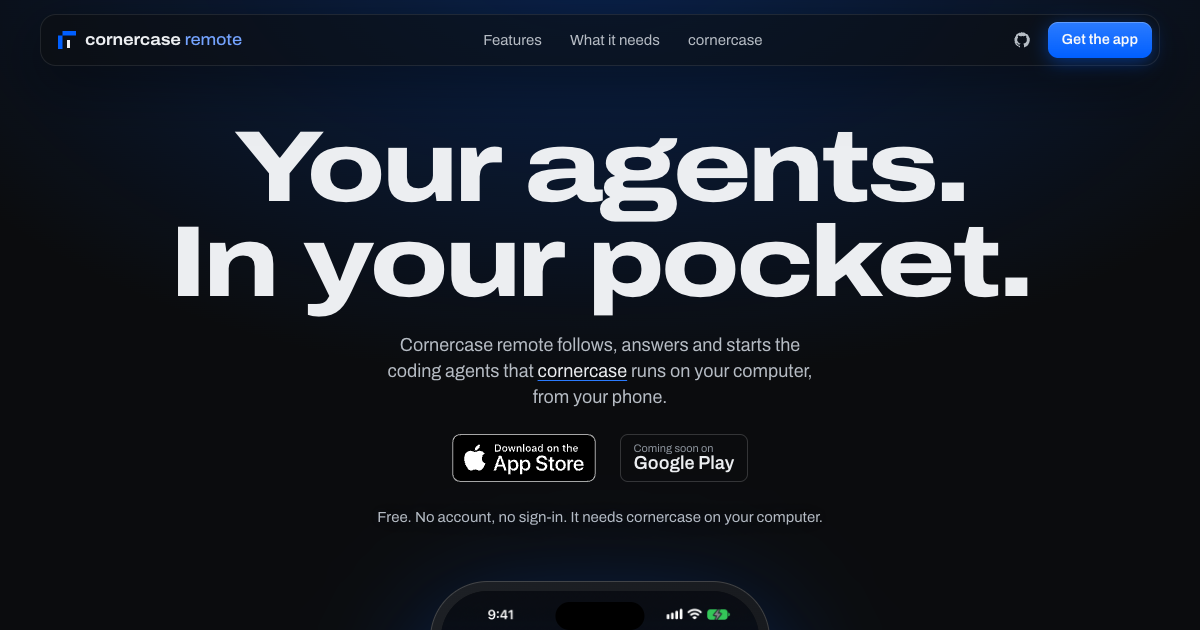
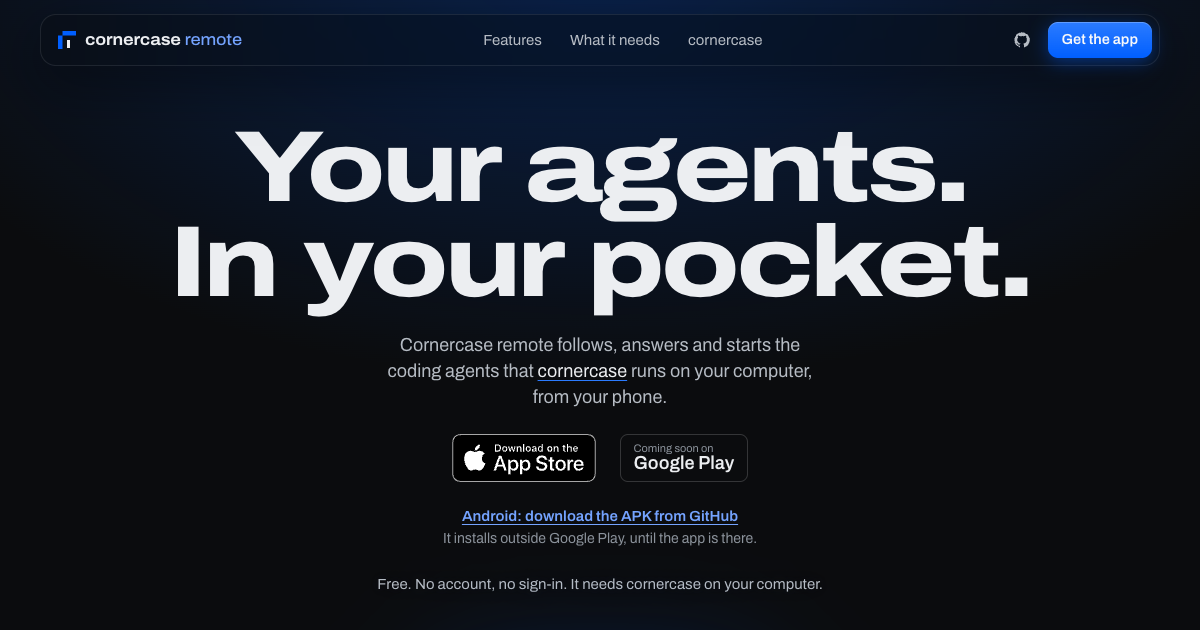
feat(072): link the Android APK on GitHub until the app is on Google Play
At the owner's request: under each pair of badges, a text link to the
repository's latest release, with a note that it installs outside Google
Play. The Coming soon on Google Play mark stays, not a link. The hero's
peek sits a little lower to keep clear of the new line; og.png retaken.

diff --git a/site/index.html b/site/index.html
@@ -16,6 +16,7 @@
         <a class="store" href="https://apps.apple.com/app/id6835431973"><img src="./assets/app-store-badge.svg" alt="Download on the App Store" width="144" height="48"></a>
         <p class="soon"><span>Coming soon on</span> <b>Google Play</b></p>
     </div>
+    <p class="apk" data-hero-rise><a href="{{repository}}/releases/latest">Android: download the APK from GitHub</a> <span>It installs outside Google Play, until the app is there.</span></p>
     <p class="hero__note" data-hero-rise>Free. No account, no sign-in. It needs cornercase on your computer.</p>
     <figure class="phone hero__still"><div class="phone__screen"><img src="../store/app-store/screenshots/iphone-6.9/01-board.png" width="1320" height="2868" loading="lazy" decoding="async" alt="The board: a demo machine's agents under Waiting, Done and Working, each with its workspace and how long it has been there."></div></figure>
   </div>
@@ -123,11 +124,12 @@
     <div class="get__head">
       <span class="get__mark" data-rise>{{mark}}</span>
       <h2 data-rise data-stretch><span class="get__line">Put your agents</span> <span class="get__line">in your pocket.</span></h2>
-      <p data-rise>Free and open source, MIT or Apache-2.0. For iPhone, on iOS 15 or later.</p>
+      <p class="get__text" data-rise>Free and open source, MIT or Apache-2.0. For iPhone on iOS 15 or later, and Android 7.0 or later.</p>
       <div class="get__cta badges badges--big" data-rise>
         <a class="store" href="https://apps.apple.com/app/id6835431973"><img src="./assets/app-store-badge.svg" alt="Download on the App Store" width="168" height="56"></a>
         <p class="soon"><span>Coming soon on</span> <b>Google Play</b></p>
       </div>
+      <p class="apk" data-rise><a href="{{repository}}/releases/latest">Android: download the APK from GitHub</a> <span>Until the app is on Google Play. It installs outside the store: the first time, Android asks you to allow installing apps from your browser.</span></p>
     </div>
   </section>
 </main>

diff --git a/scripts/site.test.ts b/scripts/site.test.ts
@@ -337,7 +337,21 @@ describe('build with the repository', () => {
     )
     expect(textOf(page)).toContain('Coming soon on Google Play')
     expect(page).not.toMatch(/<a\b[^>]*>(?:(?!<\/a>)[\s\S])*Google Play/)
-    expect(page).not.toMatch(/releases|\.apk/)
+  })
+
+  it('links the APK of the latest release beside each Google Play mark, saying it installs outside Google Play', () => {
+    const page = site.read('index.html')
+    const releases = [...page.matchAll(/<a href="([^"]*releases[^"]*)">([^<]*)<\/a> <span>([^<]*)<\/span>/g)]
+    expect(releases.map((match) => [match[1], match[2]])).toEqual([
+      ['https://github.com/owner/name/releases/latest', 'Android: download the APK from GitHub'],
+      ['https://github.com/owner/name/releases/latest', 'Android: download the APK from GitHub'],
+    ])
+    expect(releases.map((match) => match[3])).toEqual([
+      expect.stringContaining('installs outside Google Play'),
+      expect.stringContaining('installs outside the store'),
+    ])
+    expect(page.match(/Coming soon on/g)).toHaveLength(2)
+    expect(attributes(page, 'a').filter((href) => /releases|\.apk/.test(href))).toHaveLength(2)
   })
 
   it('serves the six screenshots and shows each on the landing', () => {

diff --git a/site/src/client/camera.ts b/site/src/client/camera.ts
@@ -36,7 +36,7 @@ function turnOf(chapter: Chapter): number {
 
 function wide(): Shots {
   return {
-    peek: { free: 'screen', rx: 38, dy: 0.62, zoom: 1.05 },
+    peek: { free: 'screen', rx: 38, dy: 0.66, zoom: 1.05 },
     front: { free: 'screen' },
     gone: { free: 'screen', zoom: 1.25, rx: 48, dy: 1.2, fade: 0 },
     enter: (chapter) => ({ free: chapter.free, ry: 8 * turnOf(chapter), rx: 2 }),
@@ -46,7 +46,7 @@ function wide(): Shots {
 
 function narrow(): Shots {
   return {
-    peek: { free: 'screen', rx: 30, dy: 0.6 },
+    peek: { free: 'screen', rx: 30, dy: 0.7 },
     front: { free: 'screen' },
     gone: { free: 'screen', zoom: 1.25, rx: 48, dy: 1.2, fade: 0 },
     enter: (chapter) => ({ free: chapter.free, focus: chapter.focus[0], ry: 4 * turnOf(chapter), rx: 2 }),

diff --git a/site/styles/base.css b/site/styles/base.css
@@ -194,6 +194,24 @@ h3 {
   font-weight: 600;
 }
 
+.apk {
+  display: grid;
+  justify-items: center;
+  gap: 2px;
+  max-width: 46ch;
+  color: var(--muted);
+  font-size: 14px;
+  line-height: 1.4;
+  text-align: center;
+}
+
+.apk a {
+  color: var(--accent);
+  font-size: 15px;
+  font-weight: 600;
+  text-underline-offset: 3px;
+}
+
 .badges--big .store,
 .badges--big .soon {
   margin: 14px;

diff --git a/site/styles/landing.css b/site/styles/landing.css
@@ -64,6 +64,12 @@
     transform 1.1s var(--expo) 0.3s;
 }
 
+.hero .apk {
+  transition:
+    opacity 0.9s var(--expo) 0.35s,
+    transform 1.1s var(--expo) 0.35s;
+}
+
 .hero__note {
   color: var(--soft);
   font-size: 15px;
@@ -223,7 +229,7 @@ main {
   display: block;
 }
 
-.get__head p {
+.get__text {
   max-width: 50ch;
   color: var(--soft);
   font-size: clamp(17px, 1.4vw, 21px);

diff --git a/design/website.md b/design/website.md
@@ -114,6 +114,16 @@ the new look.
   its height of clear space and nothing on it but the focus ring; the footer carries the trademark line. Google Play
   is words in a badge-shaped outline, "Coming soon on Google Play", not a link and with no Google artwork: Play is in a
   closed test, and Google's badge is for an app that is there.
+- **The APK from GitHub, under each pair of badges** (072, at the owner's request after seeing the page): "Android:
+  download the APK from GitHub", linking the repository's `releases/latest`, where `release.yml` puts the signed
+  universal APK (`design/releases.md`), with a short note that it installs outside Google Play until the app is
+  there; the closing section adds that Android asks once to allow installing apps from the browser, as `README.md`
+  says. The plan had decided the opposite, the Play mark and no link to the APK, so that the page offered only the
+  stores; the owner reversed it because Android users can install the app now, without waiting for Play's review.
+  It is a text link, smaller than the badges and below them, so the store badges stay the first way in; the link goes
+  to the release page and not to the `.apk` file, whose name changes with each version. The Play mark stays, still
+  not a link. In the hero the note is one line, and the phone's peek sits a little lower (`dy` 0.66 wide, 0.7 narrow)
+  so that it never covers it.
 
 ## The motion
 
